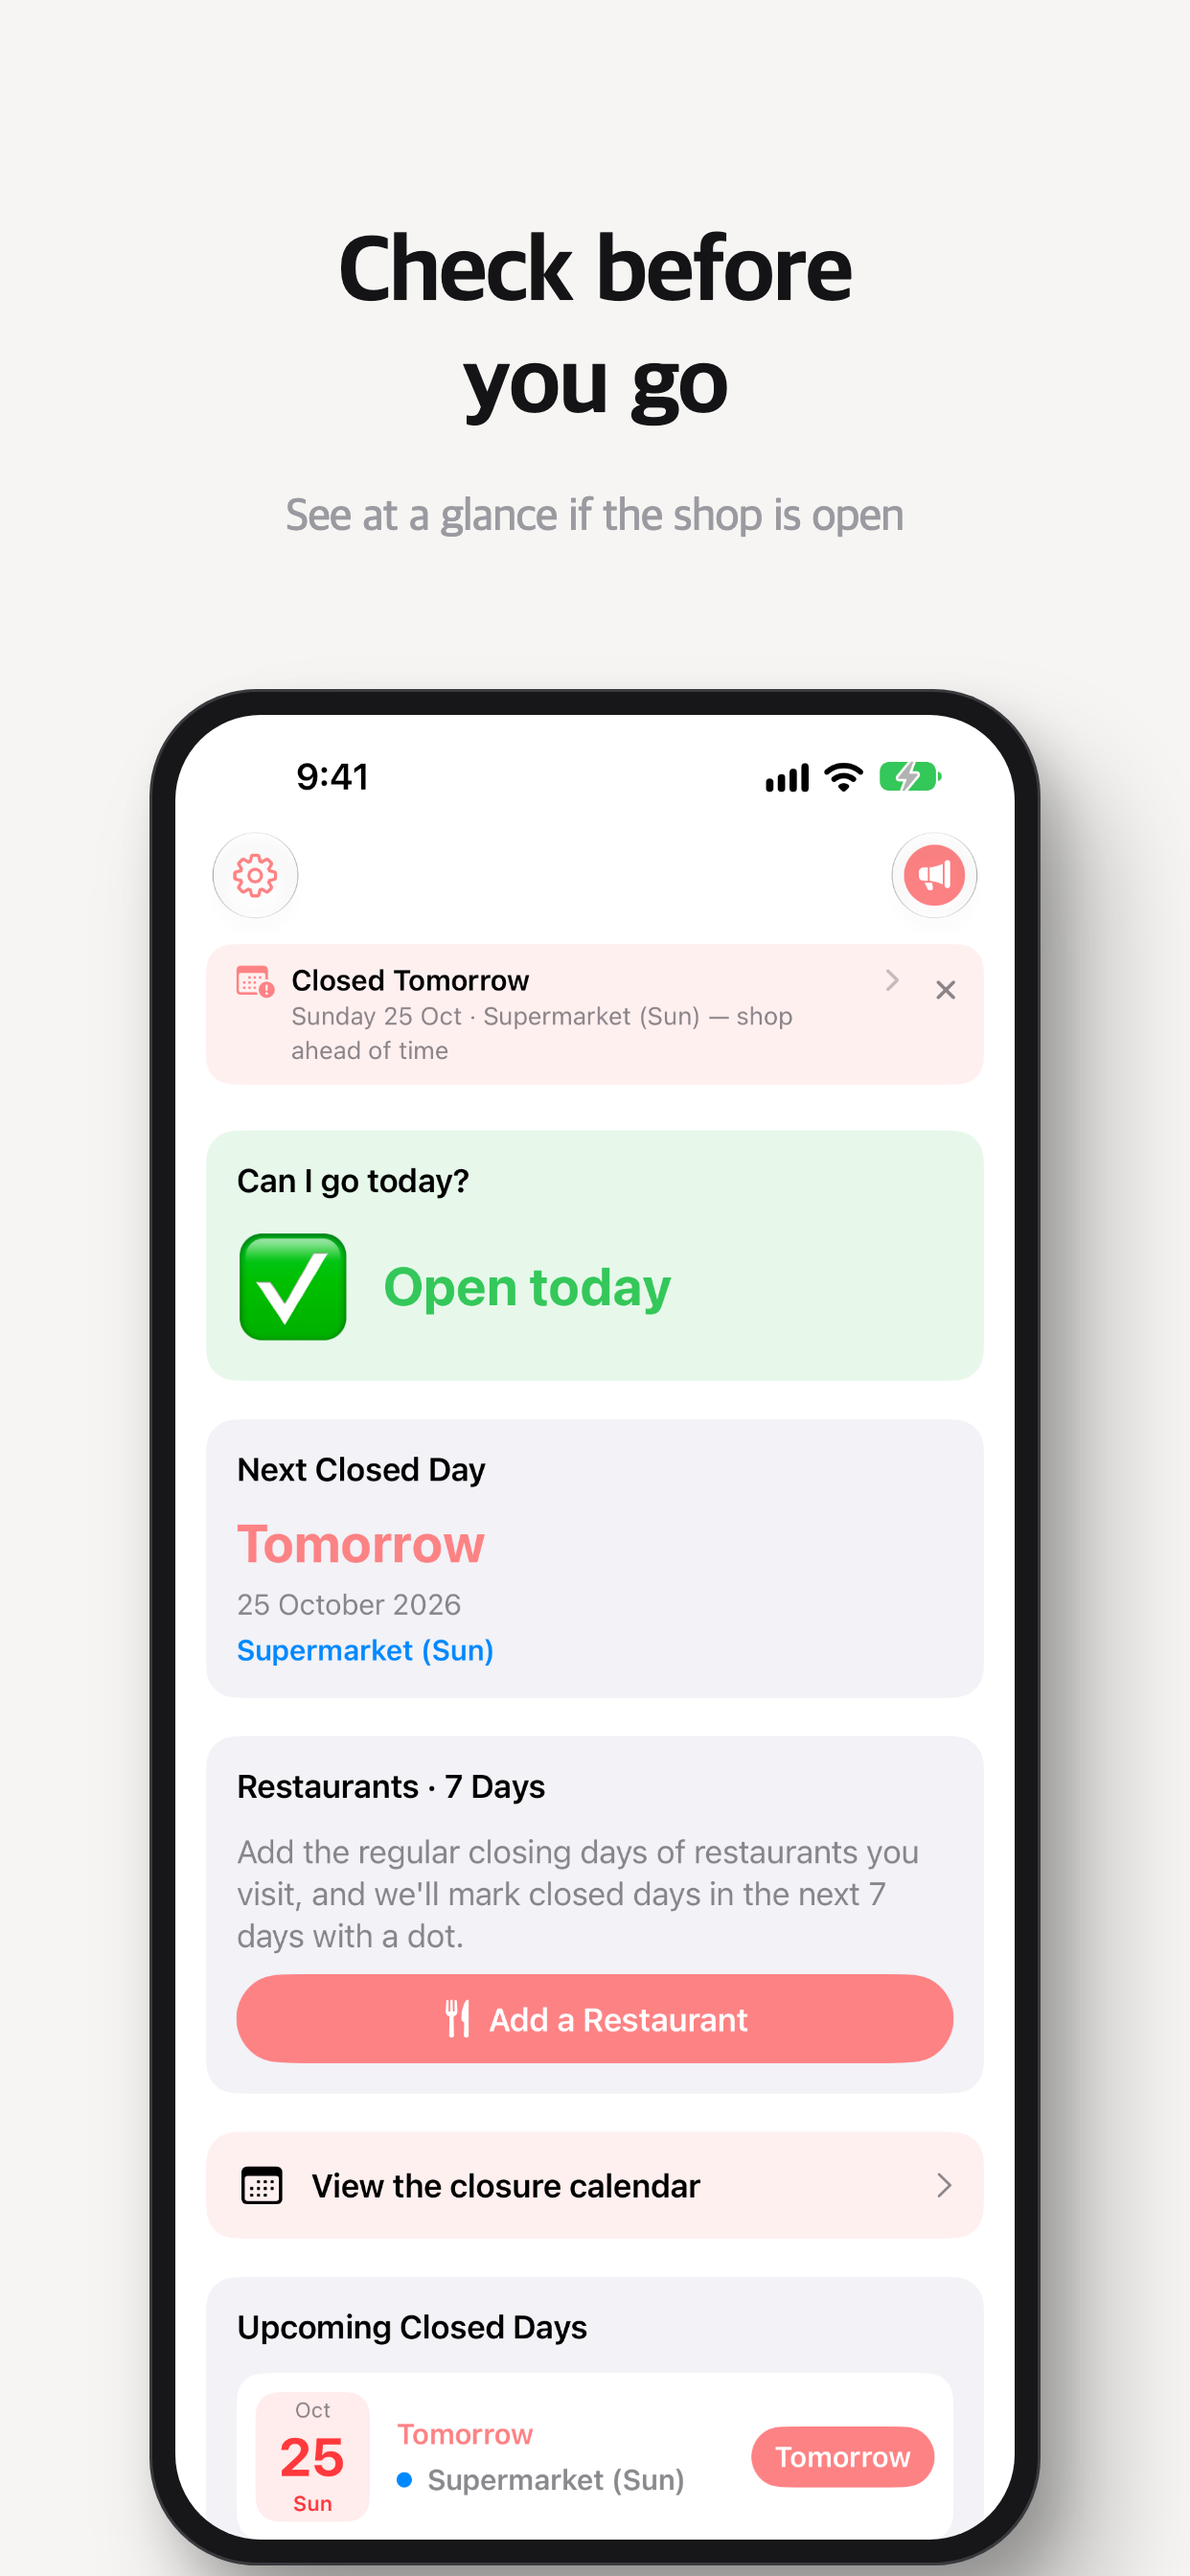
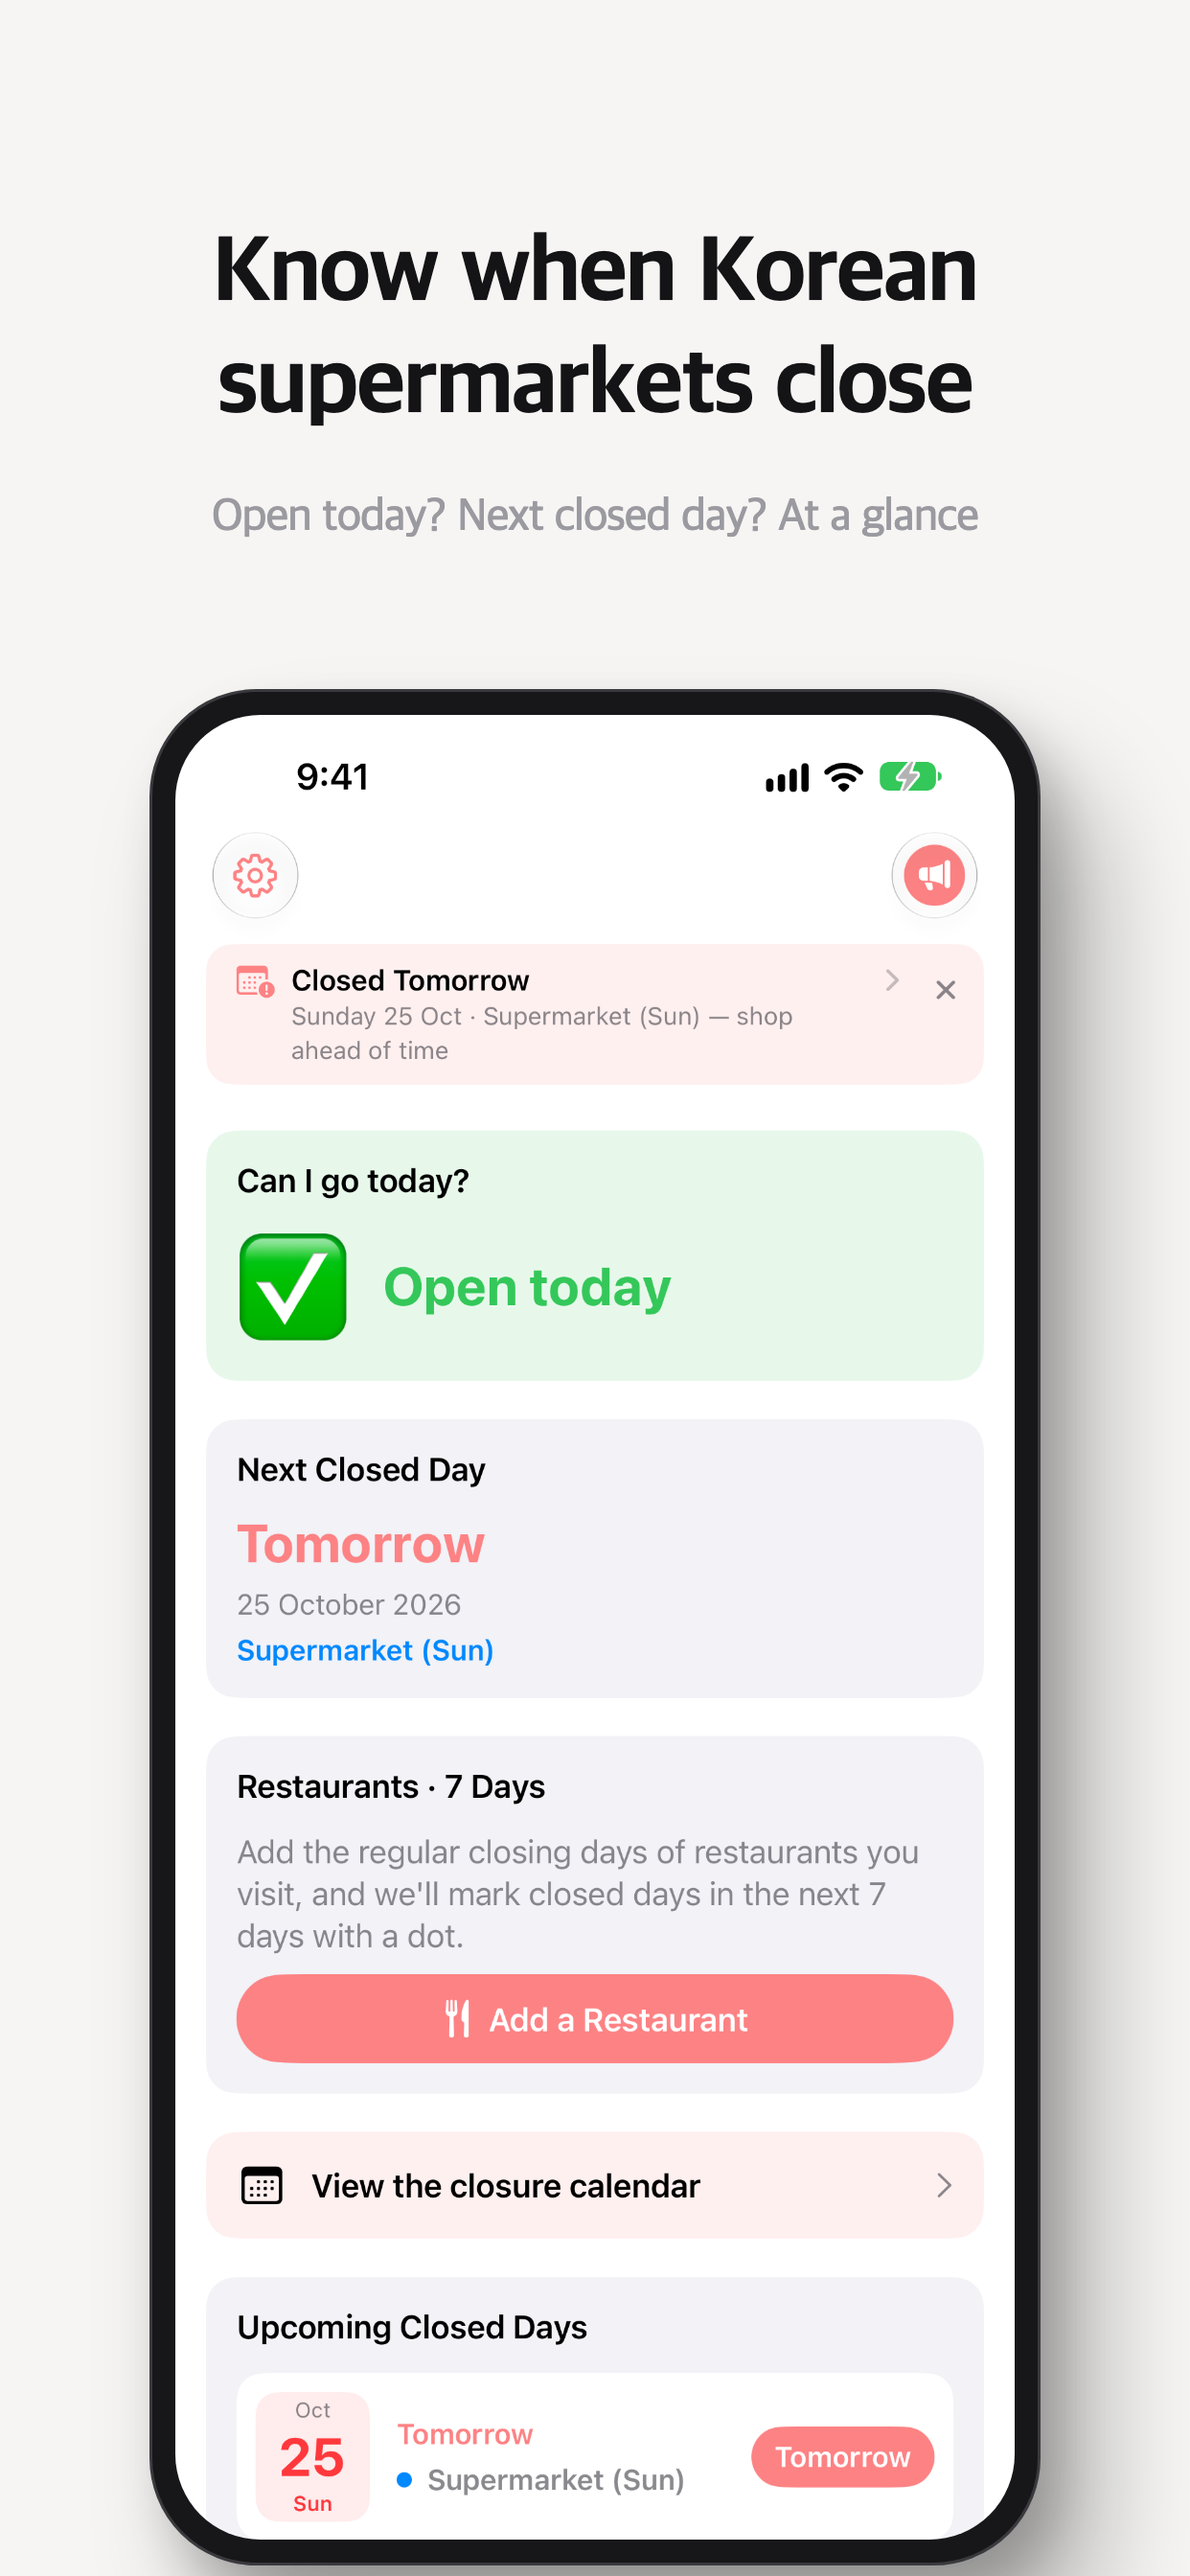
스토어: 첫 화면이 마트 쉬는 날 알림이라고 말하게 — 부제 · 키워드 · 프로모션 · 설명 첫 줄 · 스크린샷 1·2장 (ko · en)
노출 대비 첫 다운로드 0%. 이름 · 아이콘 · 첫 장 어디에도 마트 휴무일 알림이 바로 안 읽혔고,
프로모션은 단골 식당으로 시작했으며, 영어 문구는 한국 마트 앱이라는 걸 말하지 않았다.

Changed region(s): [[0.1836, 0.0938, 0.8261, 0.2188]]

diff --git a/scripts/make_marketing_screenshots.py b/scripts/make_marketing_screenshots.py
@@ -27,22 +27,22 @@ W, H = 1242, 2688
 # (파일명, 레이아웃, 헤드라인, 서브카피) — 로케일별로 따로 쓴다(기계번역 금지)
 SHOTS = {
     "ko": [
-        ("01-main.png",     "hero-bleed",  "마트 가기 전,<br>딱 3초",   "오늘 여는지 한눈에 확인하세요"),
-        ("02-calendar.png", "left-text",   "이번 달 휴무일을<br>한눈에", "달력에서 쉬는 날만 콕 집어드려요"),
+        ("01-main.png",     "hero-bleed",  "마트 쉬는 날,<br>미리 알려 드려요", "오늘 여는지, 다음 휴무까지 며칠인지 한눈에"),
+        ("02-calendar.png", "left-text",   "헛걸음 없는<br>이번 달 장보기", "의무휴업일만 달력에 콕 집어 드려요"),
         ("03-marts.png",    "text-bottom", "내가 가는 마트만 골라서",    "대형마트·코스트코·명절 휴무까지"),
         ("04-pattern.png",  "flat-rotate", "동네 마트도<br>직접 등록",   "2·4주 화요일 같은 패턴 그대로"),
         ("05-share.png",    "dark",        "휴무 소식,<br>카드 한 장으로", "가족과 이웃에게 바로 알려주세요"),
     ],
     "en": [
-        ("01-main.png",     "hero-bleed",  "Check before<br>you go",      "See at a glance if the store is open"),
-        ("02-calendar.png", "left-text",   "This month's<br>closings",    "Every closed day, right on the calendar"),
+        ("01-main.png",     "hero-bleed",  "Know when Korean<br>supermarkets close", "Open today? Next closed day? At a glance"),
+        ("02-calendar.png", "left-text",   "Never find<br>the doors shut", "Every mandatory closing day on one calendar"),
         ("03-marts.png",    "text-bottom", "Track only your stores",      "Supermarkets, Costco, holiday closings"),
         ("04-pattern.png",  "flat-rotate", "Add your<br>local store",     "Patterns like 2nd and 4th Tuesday"),
         ("05-share.png",    "dark",        "Share a closing<br>in one card", "Let family and neighbors know"),
     ],
     "en-GB": [
-        ("01-main.png",     "hero-bleed",  "Check before<br>you go",      "See at a glance if the shop is open"),
-        ("02-calendar.png", "left-text",   "This month's<br>closings",    "Every closed day, right on the calendar"),
+        ("01-main.png",     "hero-bleed",  "Know when Korean<br>supermarkets close", "Open today? Next closed day? At a glance"),
+        ("02-calendar.png", "left-text",   "Never find<br>the doors shut", "Every mandatory closing day on one calendar"),
         ("03-marts.png",    "text-bottom", "Track only your shops",       "Supermarkets, Costco, bank holiday closings"),
         ("04-pattern.png",  "flat-rotate", "Add your<br>local shop",      "Patterns like 2nd and 4th Tuesday"),
         ("05-share.png",    "dark",        "Share a closing<br>in one card", "Let family and neighbours know"),

diff --git a/APPSTORE.md b/APPSTORE.md
@@ -12,20 +12,20 @@ DeployBar 가 이 파일을 읽어 App Store Connect 의 언어별 칸에 올린
 
 ### 부제
 
-의무휴업일 D-Day와 위젯으로 헛걸음 끝
+대형마트 의무휴업일, 오늘 여는지 바로
 
 ### 키워드
 
-문닫는날,정기휴무,휴점,의무휴업,휴업,마트휴무,마트쉬는날,영업일,수요일,대형마트,창고형,영업시간,쉬는날,일요일,장보기,명절,설날,추석,휴무,마트영업시간,대형마트휴무,공휴일
+마트쉬는날,문닫는날,정기휴무,휴점,의무휴업,영업시간,영업일,일요일,수요일,창고형,장보기,쉬는날,명절,설날,추석,공휴일,식당휴무,단골식당,휴무달력,위젯,오늘영업,휴일,주말
 
 ### 프로모션 텍스트
 
-이제 단골 식당이 쉬는 날도 챙겨요. 네이버지도 링크나 사진 한 장으로 휴무일을 가져오고, 마트 쉬는 날이 다가오면 화면 위에 바로 알려 드려요.
+마트 가기 전에 오늘 여는지부터 확인하세요. 대형마트와 코스트코 의무휴업일을 달력과 위젯으로 보여 주고, 쉬는 날 전에 알려 드려요. 단골 식당 휴무도 함께, 모두 무료예요.
 
 ### 설명
 
-마트 가기 전에, 오늘 문을 여는지부터 확인하세요.
-대형마트와 코스트코의 의무휴업일을 한눈에 보여 주고, 쉬는 날이 다가오면 미리 알려 드립니다.
+대형마트와 코스트코가 쉬는 날을 미리 알려 드려서, 문 닫은 마트 앞에서 돌아서는 일이 없게 해 주는 무료 앱입니다.
+마트 가기 전에 오늘 문을 여는지, 다음 휴무까지 며칠 남았는지 한눈에 확인하세요.
 
 오늘 갈 수 있는지 바로 보여 줘요
 앱을 열면 고른 매장이 오늘 영업하는지가 가장 먼저 보입니다. 다음 휴무일까지 남은 날짜와 다가오는 휴무일 목록도 함께 확인할 수 있어요.
@@ -70,20 +70,20 @@ DontGoMart: Store Closed Days
 
 ### 부제
 
-Know before you go shopping
+When Korean supermarkets close
 
 ### 키워드
 
-sunday,grocery,supermarket,mart,hours,opening,holiday,korea,closure,reminder,warehouse,widget
+korea,mart,sunday,grocery,hours,opening,holiday,reminder,warehouse,widget,expat,seoul,calendar
 
 ### 프로모션 텍스트
 
-Now covers your favorite restaurants too. Import their days off from a Naver Map link or a screenshot, and get a heads up when a store closure is near.
+Living in Korea? See if your supermarket or Costco is open today, count down to the next mandatory closing day, and get a reminder before it shuts. All free.
 
 ### 설명
 
-Check whether your store is open before you head out.
-DontGoMart tracks the mandatory closing days of large supermarkets and Costco in Korea, and reminds you before they shut.
+DontGoMart tells you when supermarkets and Costco in Korea are closed, so you never walk up to locked doors. Every feature is free.
+Open the app to see whether your store is open today and how many days are left until the next closed day.
 
 See today's status at a glance
 Open the app and the first thing you see is whether your stores are open today, followed by a countdown to the next closed day and a list of upcoming ones.
@@ -128,20 +128,20 @@ DontGoMart: Shop Closing Days
 
 ### 부제
 
-Check before you head out
+When Korean supermarkets close
 
 ### 키워드
 
-supermarket,grocery,opening hours,bank holiday,sunday,korea,mart,reminder,widget,calendar,restaurant
+korea,mart,grocery,opening hours,sunday,holiday,reminder,widget,calendar,restaurant,expat,seoul
 
 ### 프로모션 텍스트
 
-Now covers your favourite restaurants too. Import their days off from a Naver Map link or a screenshot, and get a heads-up when a shop closure is near.
+Living in Korea? See if your supermarket or Costco is open today, count down to the next mandatory closing day, and get a reminder before it shuts. All free.
 
 ### 설명
 
-Check whether your shop is open before you head out.
-DontGoMart tracks the mandatory closing days of large supermarkets and Costco in Korea, and reminds you before they shut.
+DontGoMart tells you when supermarkets and Costco in Korea are closed, so you never turn up to locked doors. Every feature is free.
+Open the app to see whether your shop is open today and how many days are left until the next closed day.
 
 See today's status at a glance
 Open the app and the first thing you see is whether your shops are open today, followed by a countdown to the next closed day and a list of upcoming ones.

diff --git a/todo.md b/todo.md
@@ -1,3 +1,19 @@
+## 스토어 첫 화면 — 노출 대비 다운로드 1% 미만 (2026-11-25)
+
+진단: 아이콘(장바구니 금지 표시)과 "돈꼬마트"라는 이름 · 첫 장 "마트 가기 전, 딱 3초" 어디에도 "마트 쉬는 날 알림"이 바로 안 읽히고, 프로모션은 곁가지(단골 식당)로 시작했다. 영어권 문구는 한국 마트 앱이라는 걸 말하지 않았다(허브 11/23 기준 0%).
+
+- [x] 부제 ko "의무휴업일 D-Day와 위젯으로 헛걸음 끝" → "대형마트 의무휴업일, 오늘 여는지 바로", en · en-GB → "When Korean supermarkets close"
+- [x] 키워드 ko: 이름 · 부제와 겹치는 말(마트휴무 · 대형마트 · 휴무 · 휴업 등) 빼고 식당휴무 · 단골식당 · 휴무달력 · 위젯 · 오늘영업 · 휴일 · 주말 추가. en · en-GB: supermarket(부제) · closure · bank holiday 빼고 expat · seoul · calendar 등
+- [x] 프로모션 ko · en · en-GB: 오늘 여는지 · 의무휴업일 달력 · 위젯 · 알림 · 무료를 앞에, 식당은 뒤로
+- [x] 설명 첫 줄 ko · en · en-GB: 무엇을 해 주는 무료 앱인지 한 문장
+- [x] 스크린샷 1 · 2장 캡션 ko · en · en-GB 다시 쓰고 `scripts/make_marketing_screenshots.py ko en en-GB` 로 다시 그림 (1장 "마트 쉬는 날, 미리 알려 드려요" / "Know when Korean supermarkets close")
+- [x] 글자 수 검사 24개 언어 통과
+- [ ] App Store Connect 반영: ko · en · en-GB 부제 · 키워드 · 프로모션 · 설명 · 스크린샷 01 · 02 (다음 배포 때 DeployBar 로, 또는 프로모션만 지금 바로)
+- [ ] 허브에서 노출이 어느 나라에서 오는지 확인 — 한국 밖 노출이 대부분이면 0% 는 문구보다 대상 문제(추측)
+- [ ] 아이콘 검토(제안): 장바구니 금지 표시는 "쇼핑 금지 · 광고 차단"처럼 읽힌다. 달력 위 장바구니 + 빨간 "휴무" 도장처럼 "쉬는 날"이 보이는 쪽
+- [ ] 이름 검토(제안): "돈꼬마트"는 뜻이 안 읽혀 부제목이 일을 다 한다. 이름 뒤쪽을 "마트 쉬는 날 · 의무휴업일 알림"으로 바꾸는 것 검토 (30자 안)
+- [ ] 다른 21개 언어는 그대로 — 한국에 사는 사람만 쓸 수 있는 앱이라 우선순위 낮음
+
 # 아이폰 듀오 대응 (2026-10-30, 듀오 시뮬레이터 빌드 성공 · 화면 캡처는 못 함 · 실기기 확인 안 함)
 
 - [x] 루트에 `.foldAware()` (LeeoKit 3.26 Fold). 시트 · 알림창이 접힌 선을 비킨다
